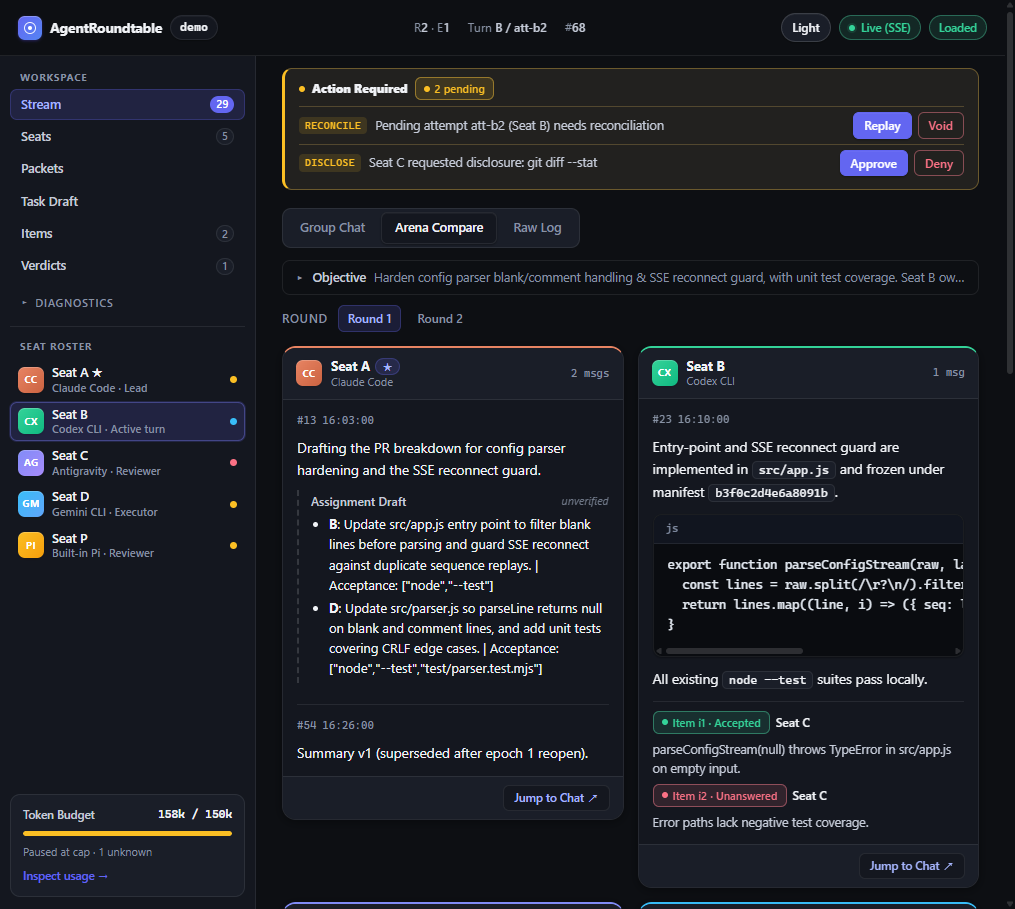
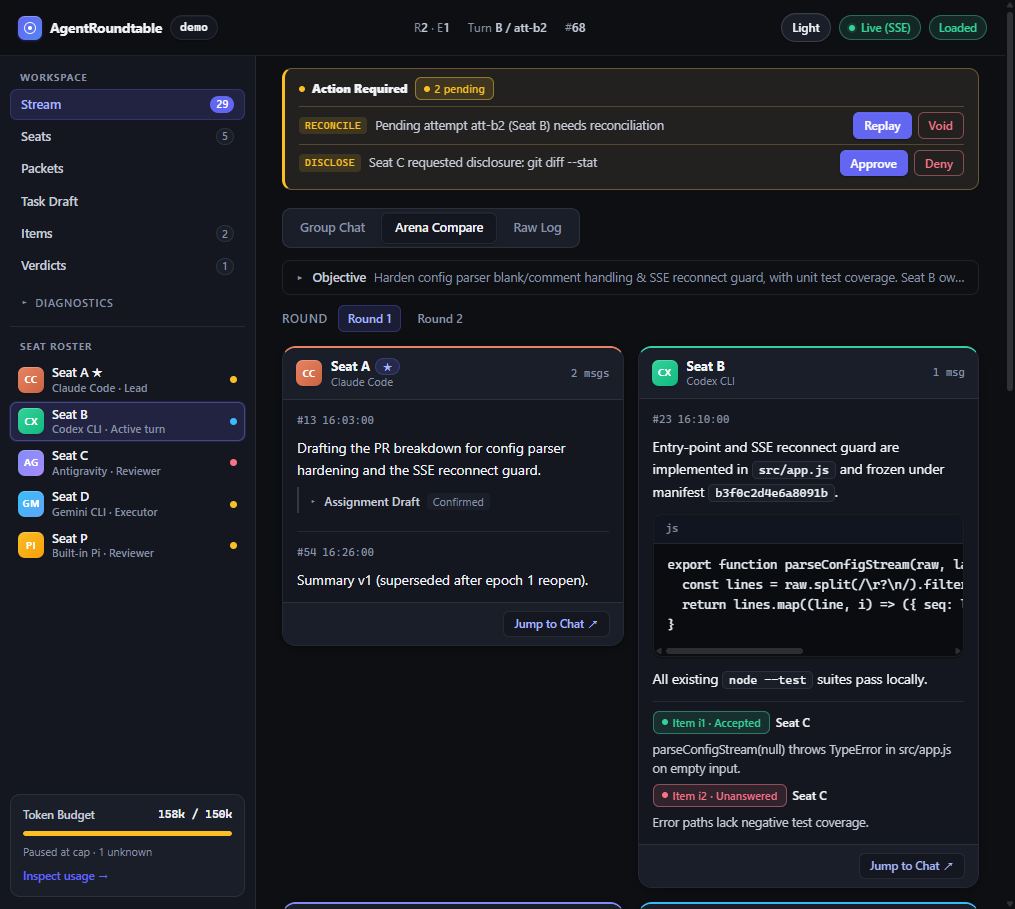
feat(ui): auto-fold completed directives and adapt phase stepper for discussion rooms
- Auto-fold completed directives inside Group Chat and Arena bubbles (confirmed Assignment Draft, recorded Verdict claims, executed/denied Disclosures, and resolved Points) into single-line expandable <details> summaries while keeping pending/open items expanded
- Auto-collapse Round Controls drawers after submitting start/interrupt/reverse actions
- Hide assign/work steps on the topbar phase stepper in discussion-only rooms
- Add unit test coverage in test/rt-chat.test.mjs and refresh Room Workspace screenshots in docs/assets/

Changed region(s): [[0.2749, 0.5237, 0.6108, 0.7393], [0.2749, 0.7701, 0.6108, 0.8933], [0.9773, 0.4004, 1.0, 0.4312]]

diff --git a/ui/rt-chat.js b/ui/rt-chat.js
@@ -524,8 +524,33 @@
       if (r.summaryCard && r.summaryCard.seq !== null) renderedSeqs.add(r.summaryCard.seq);
     });
 
+    var taskConfirmed = Boolean(derived.taskConfirmed || (isObj(state.taskConfirmed) && state.taskConfirmed));
+
+    // Track completed disclosures and resolved points so finished directives auto-fold cleanly.
+    var disclosureStatusByKey = new Map();
+    var disMap = isObj(derived.disclosures) ? derived.disclosures : {};
+    Object.keys(disMap).forEach(function (k) {
+      var q = disMap[k];
+      if (!q || !q.status) return;
+      var argvStr = Array.isArray(q.argv) ? q.argv.join(' ') : String(q.argv || '');
+      disclosureStatusByKey.set(String(q.seatId || '') + '\0' + argvStr, String(q.status));
+    });
+    var pointStatusByKey = new Map();
+    for (var pi = 0; pi < rawItems.length; pi += 1) {
+      var pIt = rawItems[pi];
+      if (!pIt || pIt.kind !== 'point' || pIt.seq === null) continue;
+      var pKey = String(pIt.seatId || '') + '\0' + String(pIt.seq);
+      var prevSt = pointStatusByKey.get(pKey);
+      // If any point on this target is still open/unanswered, keep expanded; otherwise record resolved status.
+      if (pIt.status === 'open' || pIt.status === 'unanswered') pointStatusByKey.set(pKey, 'open');
+      else if (prevSt !== 'open') pointStatusByKey.set(pKey, pIt.status);
+    }
+
     return {
       pendingTask: rounds.length === 0 ? lastTaskText : null,
+      taskConfirmed: taskConfirmed,
+      disclosureStatusByKey: disclosureStatusByKey,
+      pointStatusByKey: pointStatusByKey,
       rounds: rounds,
       latestRoundId: rounds.length ? rounds[rounds.length - 1].roundId : activeRoundId,
       knownSeqSeatIds: knownSeqSeatIds,
@@ -720,12 +745,29 @@
     return el(doc, 'span', { class: 'rt-claim-origin', text: tr(lang, 'chat.claimBadge') });
   }
 
+  function foldedClaim(doc, titleText, statusText, bodyNodes, extraAttrs) {
+    var summaryChildren = [
+      el(doc, 'span', { class: 'rt-folded-title', text: titleText }),
+      statusText ? el(doc, 'span', { class: 'rt-folded-status', text: statusText }) : null,
+    ];
+    var det = el(doc, 'details', Object.assign({ class: 'rt-claim-folded' }, extraAttrs || {}), [
+      el(doc, 'summary', { class: 'rt-folded-summary' }, summaryChildren),
+      el(doc, 'div', { class: 'rt-folded-body' }, bodyNodes),
+    ]);
+    return det;
+  }
+
   function renderSegments(doc, segments, ctx) {
     var frag = doc.createDocumentFragment();
     var lang = ctx.lang || 'en';
     var knownSeqSeatIds = ctx.knownSeqSeatIds || new Map();
     var renderedSeqs = ctx.renderedSeqs || new Set();
     var bubbleQuotes = ctx.quotes || [];
+    var seatId = ctx.seatId || '';
+    var taskConfirmed = !!ctx.taskConfirmed;
+    var hasOfficialVerdict = !!ctx.hasOfficialVerdict;
+    var disclosureStatusByKey = ctx.disclosureStatusByKey || new Map();
+    var pointStatusByKey = ctx.pointStatusByKey || new Map();
 
     for (var i = 0; i < segments.length; i += 1) {
       var seg = segments[i];
@@ -765,45 +807,89 @@
           frag.appendChild(bq);
         })(seg);
       } else if (seg.type === 'point') {
-        frag.appendChild(el(doc, 'div', { class: 'rt-claim-card', 'data-point-seq': String(seg.seq) }, [
-          el(doc, 'div', { class: 'rt-claim-head' }, [
-            el(doc, 'code', { class: 'rt-claim-tag', text: tr(lang, 'chat.claimPoint', { seq: seg.seq }) }),
-            claimBadge(doc, lang),
-          ]),
-          renderMdOrPre(doc, seg.text),
-        ]));
+        var ptStatus = pointStatusByKey.get(String(seatId) + '\0' + String(seg.seq));
+        var ptResolved = ptStatus && ptStatus !== 'open' && ptStatus !== 'unanswered';
+        if (ptResolved) {
+          frag.appendChild(foldedClaim(
+            doc,
+            tr(lang, 'chat.claimPoint', { seq: seg.seq }),
+            statusLabel(lang, ptStatus),
+            [renderMdOrPre(doc, seg.text)],
+            { 'data-point-seq': String(seg.seq) }
+          ));
+        } else {
+          frag.appendChild(el(doc, 'div', { class: 'rt-claim-card', 'data-point-seq': String(seg.seq) }, [
+            el(doc, 'div', { class: 'rt-claim-head' }, [
+              el(doc, 'code', { class: 'rt-claim-tag', text: tr(lang, 'chat.claimPoint', { seq: seg.seq }) }),
+              claimBadge(doc, lang),
+            ]),
+            renderMdOrPre(doc, seg.text),
+          ]));
+        }
       } else if (seg.type === 'assign') {
-        var assignChildren = [
-          el(doc, 'div', { class: 'rt-claim-head' }, [
-            el(doc, 'code', { class: 'rt-claim-tag', text: tr(lang, 'chat.claimAssign') }),
-            claimBadge(doc, lang),
-          ]),
-        ];
+        var assignBody = [];
         if (seg.items.length) {
-          assignChildren.push(el(doc, 'ul', { class: 'rt-assign-list' }, seg.items.map(function (row) {
+          assignBody.push(el(doc, 'ul', { class: 'rt-assign-list' }, seg.items.map(function (row) {
             return el(doc, 'li', null, [el(doc, 'strong', { text: row.seatId }), ': ', row.task]);
           })));
         }
-        if (seg.extraText) assignChildren.push(renderMdOrPre(doc, seg.extraText));
-        frag.appendChild(el(doc, 'div', { class: 'rt-assign-card' }, assignChildren));
+        if (seg.extraText) assignBody.push(renderMdOrPre(doc, seg.extraText));
+        if (taskConfirmed) {
+          frag.appendChild(foldedClaim(doc, tr(lang, 'chat.claimAssign'), 'Confirmed', assignBody));
+        } else {
+          var assignChildren = [
+            el(doc, 'div', { class: 'rt-claim-head' }, [
+              el(doc, 'code', { class: 'rt-claim-tag', text: tr(lang, 'chat.claimAssign') }),
+              claimBadge(doc, lang),
+            ]),
+          ].concat(assignBody);
+          frag.appendChild(el(doc, 'div', { class: 'rt-assign-card' }, assignChildren));
+        }
       } else if (seg.type === 'verdict') {
-        frag.appendChild(el(doc, 'div', { class: 'rt-claim-card', 'data-speech-verdict': seg.verdict }, [
-          el(doc, 'div', { class: 'rt-claim-head' }, [
-            el(doc, 'code', { class: 'rt-claim-tag', text: tr(lang, 'chat.claimVerdict', { verdict: seg.verdict }) }),
+        if (hasOfficialVerdict) {
+          var vBody = [
             seg.artifact ? el(doc, 'code', { class: 'rt-sha', text: shortSha(seg.artifact) }) : null,
-            claimBadge(doc, lang),
-          ]),
-          seg.reason ? renderMdOrPre(doc, seg.reason) : null,
-        ]));
+            seg.reason ? renderMdOrPre(doc, seg.reason) : null,
+          ];
+          frag.appendChild(foldedClaim(
+            doc,
+            tr(lang, 'chat.claimVerdict', { verdict: seg.verdict }),
+            'Recorded',
+            vBody,
+            { 'data-speech-verdict': seg.verdict }
+          ));
+        } else {
+          frag.appendChild(el(doc, 'div', { class: 'rt-claim-card', 'data-speech-verdict': seg.verdict }, [
+            el(doc, 'div', { class: 'rt-claim-head' }, [
+              el(doc, 'code', { class: 'rt-claim-tag', text: tr(lang, 'chat.claimVerdict', { verdict: seg.verdict }) }),
+              seg.artifact ? el(doc, 'code', { class: 'rt-sha', text: shortSha(seg.artifact) }) : null,
+              claimBadge(doc, lang),
+            ]),
+            seg.reason ? renderMdOrPre(doc, seg.reason) : null,
+          ]));
+        }
       } else if (seg.type === 'disclose') {
-        frag.appendChild(el(doc, 'div', { class: 'rt-claim-card' }, [
-          el(doc, 'div', { class: 'rt-claim-head' }, [
-            el(doc, 'code', { class: 'rt-claim-tag', text: tr(lang, 'chat.claimDisclose') }),
-            el(doc, 'code', { class: 'rt-sha', text: seg.argv.join(' ') }),
-            claimBadge(doc, lang),
-          ]),
-          seg.reason ? el(doc, 'div', { class: 'rt-claim-body', text: seg.reason }) : null,
-        ]));
+        var argvStr = seg.argv.join(' ');
+        var dStatus = disclosureStatusByKey.get(String(seatId) + '\0' + argvStr);
+        var dDone = dStatus && dStatus !== 'requested';
+        if (dDone) {
+          var dLabel = dStatus.charAt(0).toUpperCase() + dStatus.slice(1);
+          frag.appendChild(foldedClaim(
+            doc,
+            tr(lang, 'chat.claimDisclose') + ' · ' + argvStr,
+            dLabel,
+            [seg.reason ? el(doc, 'div', { class: 'rt-claim-body', text: seg.reason }) : null]
+          ));
+        } else {
+          frag.appendChild(el(doc, 'div', { class: 'rt-claim-card' }, [
+            el(doc, 'div', { class: 'rt-claim-head' }, [
+              el(doc, 'code', { class: 'rt-claim-tag', text: tr(lang, 'chat.claimDisclose') }),
+              el(doc, 'code', { class: 'rt-sha', text: argvStr }),
+              claimBadge(doc, lang),
+            ]),
+            seg.reason ? el(doc, 'div', { class: 'rt-claim-body', text: seg.reason }) : null,
+          ]));
+        }
       } else if (seg.type === 'misquoted') {
         frag.appendChild(el(doc, 'div', { class: 'rt-claim-card', 'data-misquoted-seq': String(seg.seq) }, [
           el(doc, 'div', { class: 'rt-claim-head' }, [
@@ -901,6 +987,11 @@
     var bodyInner = el(doc, 'div', { class: 'rt-bubble-body' + (isCollapsed ? ' is-collapsed' : '') });
     bodyInner.appendChild(renderSegments(doc, bubble.segments, {
       lang: lang,
+      seatId: bubble.seatId || '',
+      taskConfirmed: !!chatModel.taskConfirmed,
+      hasOfficialVerdict: !!(bubble.verdicts && bubble.verdicts.length),
+      disclosureStatusByKey: chatModel.disclosureStatusByKey,
+      pointStatusByKey: chatModel.pointStatusByKey,
       knownSeqSeatIds: chatModel.knownSeqSeatIds,
       renderedSeqs: chatModel.renderedSeqs,
       quotes: bubble.quotes,
@@ -1184,6 +1275,11 @@
           ]);
           msgCard.appendChild(renderSegments(doc, b.segments, {
             lang: lang,
+            seatId: b.seatId || '',
+            taskConfirmed: !!chatModel.taskConfirmed,
+            hasOfficialVerdict: !!(b.verdicts && b.verdicts.length),
+            disclosureStatusByKey: chatModel.disclosureStatusByKey,
+            pointStatusByKey: chatModel.pointStatusByKey,
             knownSeqSeatIds: chatModel.knownSeqSeatIds,
             renderedSeqs: chatModel.renderedSeqs,
             quotes: b.quotes,

diff --git a/ui/app.js b/ui/app.js
@@ -913,6 +913,9 @@
     return fetchJson('/api/admin', { method: 'POST', headers: { 'content-type': 'application/json' }, body: JSON.stringify(body) }).then(function (res) {
       if (res.ok && (!res.body || res.body.ok !== false)) {
         toast('Submitted ' + a.cmd + (res.body && res.body.queued ? ' → ' + res.body.queued : ''), 'ok');
+        if (a.cmd === 'start' || a.cmd === 'interrupt' || a.cmd === 'reverse') {
+          document.querySelectorAll('.rt-controls-drawer, .rt-danger-disclosure').forEach(function (dEl) { dEl.open = false; });
+        }
         setTimeout(poll, 300);
       } else {
         var err = res.body && (res.body.error || res.body.reason || res.body.message);
@@ -980,16 +983,28 @@
   function renderPhaseStepper(phaseVal) {
     var stepper = document.getElementById('hdr-stepper');
     if (!stepper || typeof stepper.querySelectorAll !== 'function') return;
+    var isDiscussionOnly = !!(
+      app.room &&
+      (app.room.preset === 'discussion' || (!app.room.preset && !app.derived.taskDraft && !(app.state && app.state.taskConfirmed) && Object.keys(app.derived.artifacts || {}).length === 0)) &&
+      phaseVal !== 'assign' &&
+      phaseVal !== 'work'
+    );
     var activeIdx = STEPPER_PHASES.indexOf(phaseVal);
     var allDone = phaseVal === 'done' || phaseVal === 'closed';
     var steps = stepper.querySelectorAll('.step');
+    var seps = stepper.querySelectorAll('.step-sep');
     for (var i = 0; i < steps.length; i += 1) {
       var st = steps[i];
       var name = st.getAttribute('data-step');
       var idx = STEPPER_PHASES.indexOf(name);
+      var hideStep = isDiscussionOnly && (name === 'assign' || name === 'work');
       if (st.classList && typeof st.classList.toggle === 'function') {
+        st.classList.toggle('hidden', hideStep);
         st.classList.toggle('is-done', allDone || (activeIdx > -1 && idx < activeIdx));
         st.classList.toggle('is-active', !allDone && activeIdx > -1 && idx === activeIdx);
+      }
+      if (seps[i] && seps[i].classList && typeof seps[i].classList.toggle === 'function') {
+        seps[i].classList.toggle('hidden', hideStep);
       }
     }
   }

diff --git a/ui/rt-chat.css b/ui/rt-chat.css
@@ -638,6 +638,46 @@
   word-break: break-word;
 }
 
+.rt-claim-folded {
+  margin: 6px 0;
+  padding: 2px 0 2px 10px;
+  border-left: 2px solid var(--border-strong);
+}
+.rt-folded-summary {
+  display: inline-flex;
+  align-items: center;
+  gap: 7px;
+  cursor: pointer;
+  user-select: none;
+  list-style: none;
+  font-size: 12px;
+  color: var(--muted);
+}
+.rt-folded-summary::-webkit-details-marker { display: none; }
+.rt-folded-summary::before {
+  content: "▸";
+  font-size: 10px;
+  transition: transform 0.14s ease;
+}
+.rt-claim-folded[open] > .rt-folded-summary::before {
+  transform: rotate(90deg);
+}
+.rt-folded-summary:hover { color: var(--ink); }
+.rt-folded-title { font-weight: 500; color: var(--ink-2); }
+.rt-folded-status {
+  font-size: 11px;
+  color: var(--muted);
+  padding: 0 6px;
+  border-radius: 4px;
+  background: var(--surface-subtle);
+}
+.rt-folded-body {
+  margin-top: 6px;
+  padding-left: 2px;
+  font-size: 13px;
+  color: var(--ink-2);
+}
+
 .rt-assign-list {
   margin: 4px 0 0;
   padding-left: 18px;
